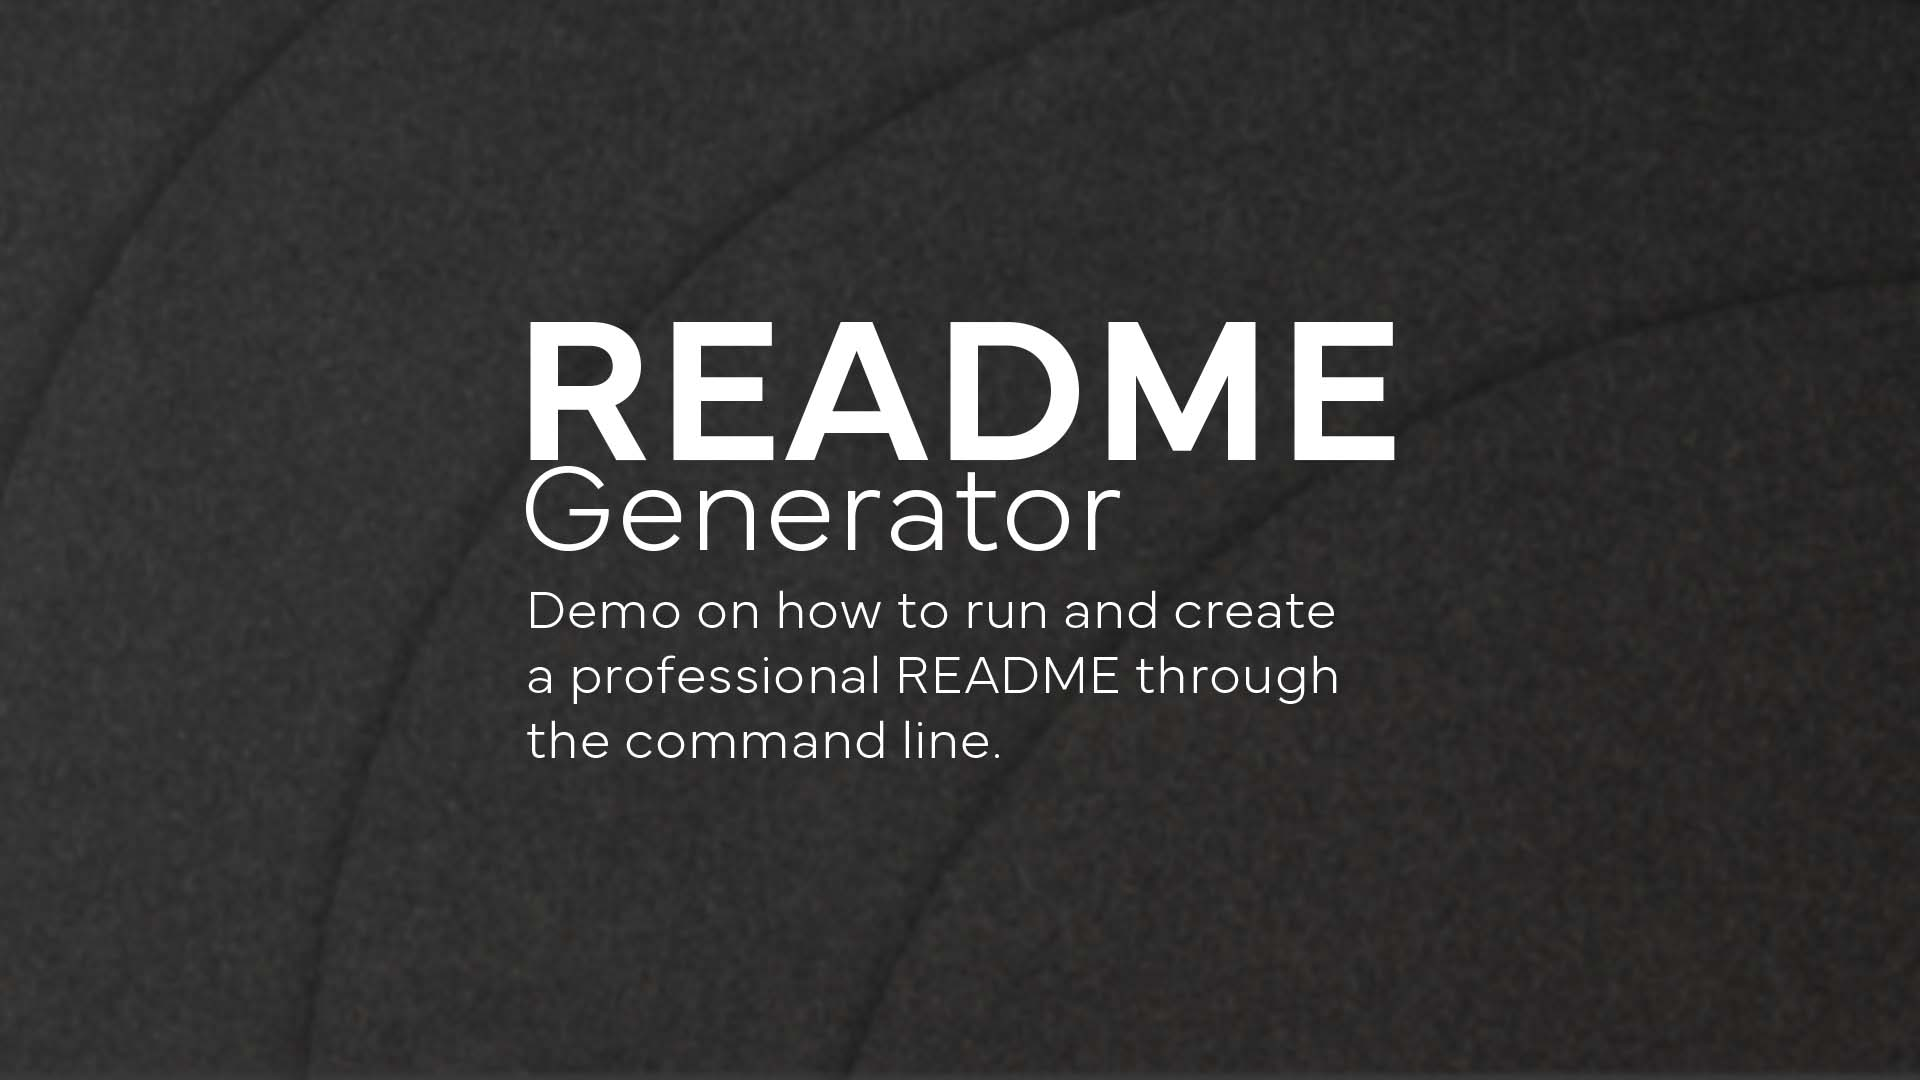
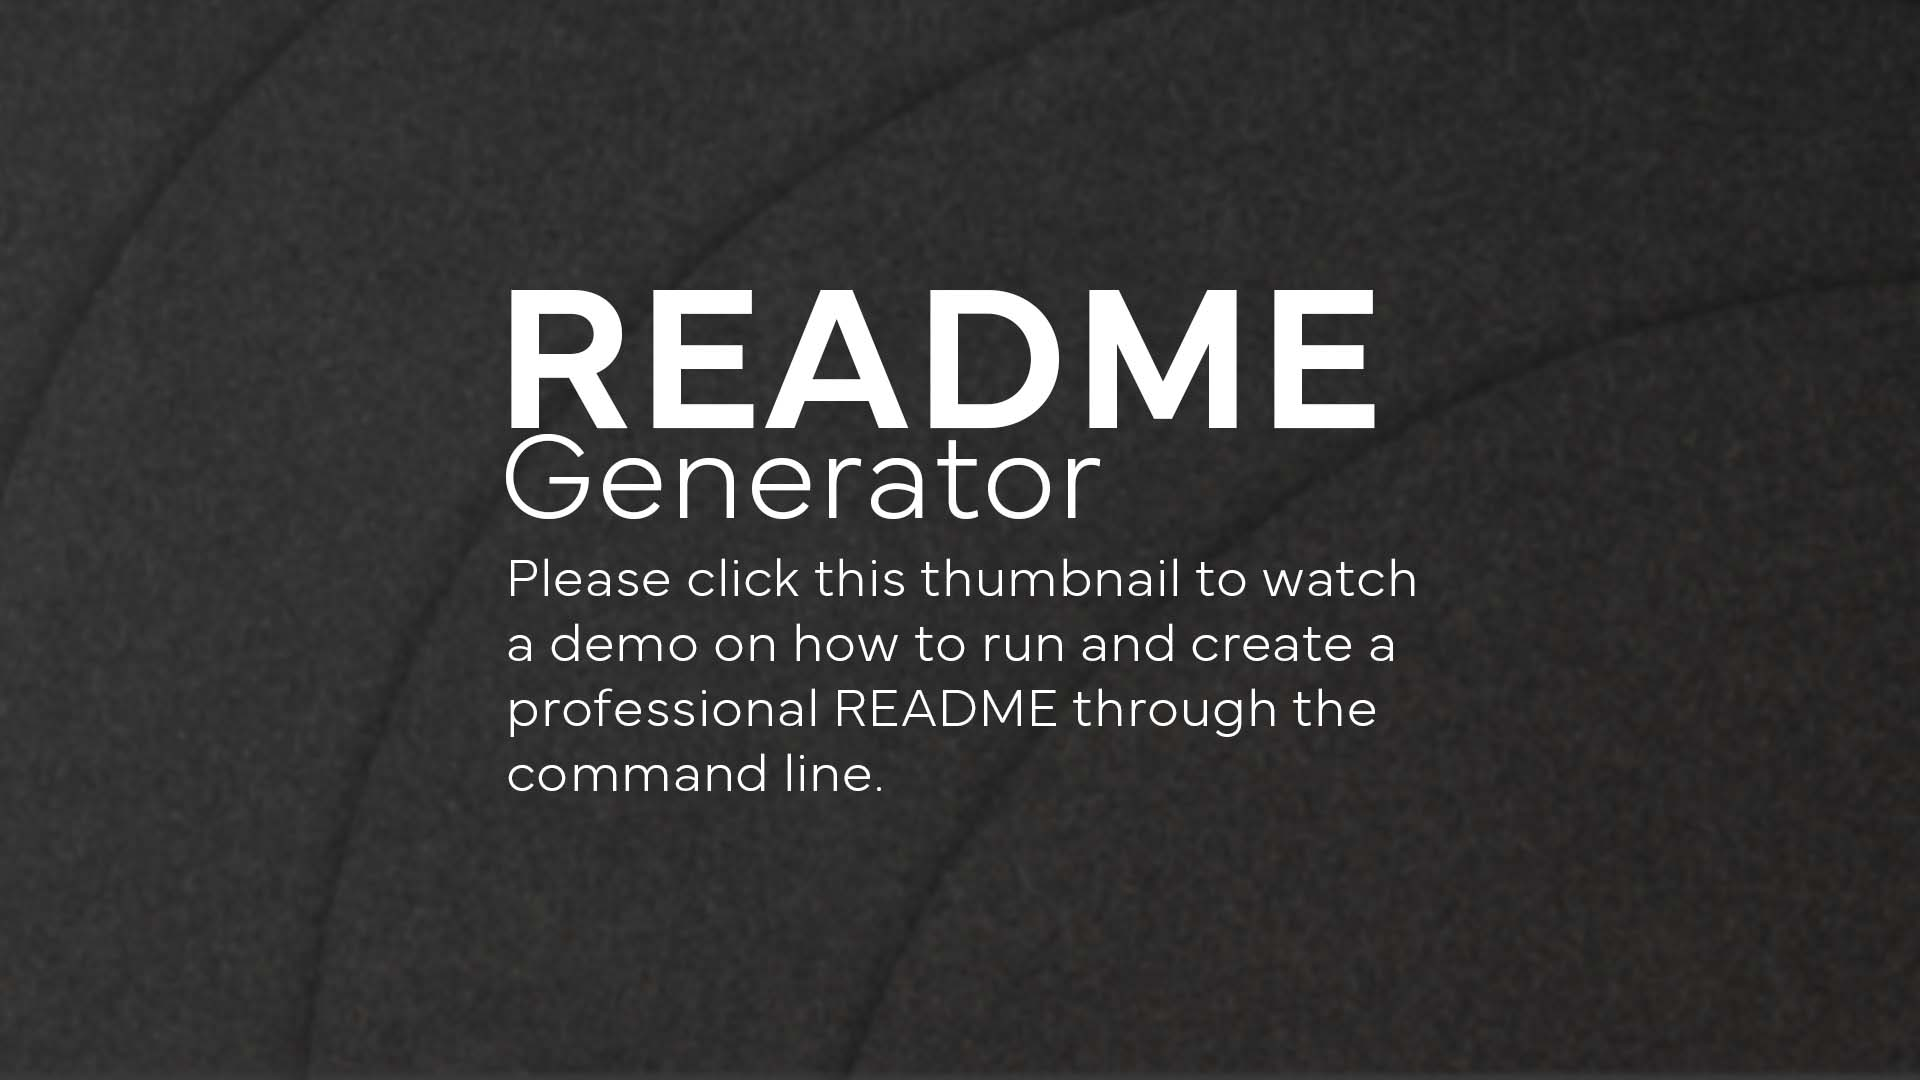
debugged more generateMarkdown files, went through checklist and verified nothing was missing as well as tested.

Changed region(s): [[0.25, 0.2444, 0.75, 0.7333]]

diff --git a/utils/generateMarkdown.js b/utils/generateMarkdown.js
@@ -62,9 +62,9 @@ node index.js
 Follow the prompts to enter project details like title, description, license, and more.
 
 ### Demo Video
-[![Watch the demo video](./assets/readme-thumbnail.jpg)](https://drive.google.com/file/d/1_9zT3OpjmrCfQxsHsm1x_3QI4pHRYDnf/view?usp=sharing)
+[![Watch the demo video](./assets/images/readme-thumbnail.jpg)](https://drive.google.com/file/d/1_9zT3OpjmrCfQxsHsm1x_3QI4pHRYDnf/view?usp=sharing)
 
-This demo shows the program's features, including generating a README file based on user inputs.
+This demo shows the program's features, including generating a README file based on user inputs. Click or tap the image to watch the video!
 
 
 ## License

diff --git a/README.md b/README.md
@@ -1,8 +1,8 @@
-# j
+# README Generator
 
 ![License](https://img.shields.io/badge/License-MIT-blue.svg)
 
-j
+Create a professional README using a command line interface application. Simply respond to questions and the README will generate and fill in your input to create your desired README.
 
 ## Table of Contents
 - [Description](#description)
@@ -14,7 +14,7 @@ j
 - [Questions](#questions)
 
 ## Description
-j
+Create a professional README using a command line interface application. Simply respond to questions and the README will generate and fill in your input to create your desired README.
 
 ## Installation
 To install the necessary dependencies, run the following command:
@@ -33,9 +33,9 @@ node index.js
 Follow the prompts to enter project details like title, description, license, and more.
 
 ### Demo Video
-[![Watch the demo video](./assets/readme-thumbnail.jpg)](https://drive.google.com/file/d/1_9zT3OpjmrCfQxsHsm1x_3QI4pHRYDnf/view?usp=sharing)
+[![Watch the demo video](./assets/images/readme-thumbnail.jpg)](https://drive.google.com/file/d/1_9zT3OpjmrCfQxsHsm1x_3QI4pHRYDnf/view?usp=sharing)
 
-This demo shows the program's features, including generating a README file based on user inputs.
+This demo shows the program's features, including generating a README file based on user inputs. Click or tap the image to watch the video!
 
 
 ## License
@@ -54,5 +54,5 @@ npm test
 ## Questions
 If you have any questions about the project, feel free to contact me:
 
-- GitHub: [j](https://github.com/j)
-- Email: j
+- GitHub: [JakeStair](https://github.com/JakeStair)
+- Email: jacob.watson00@yahoo.com
